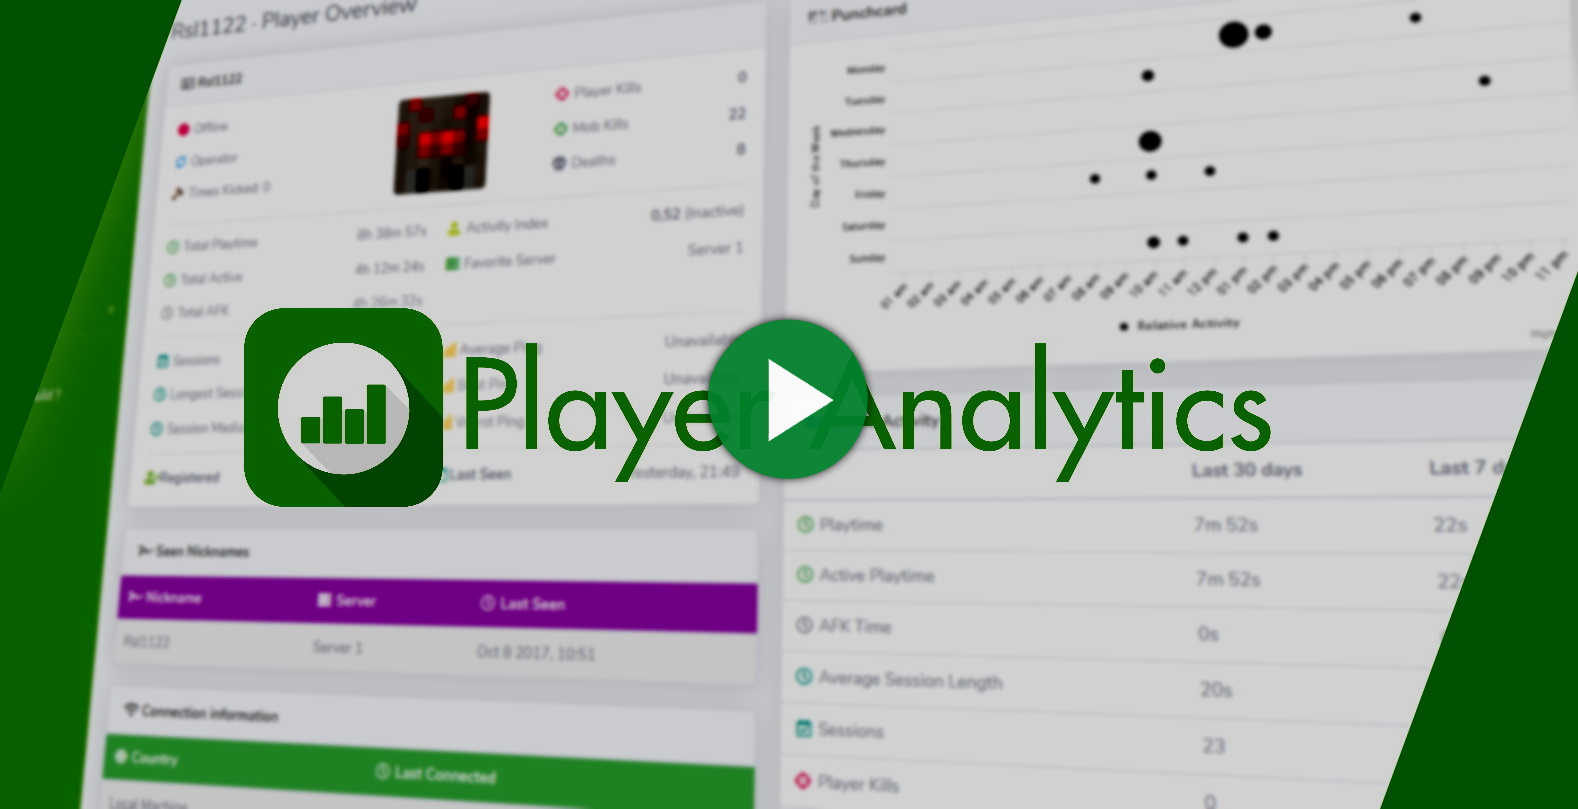
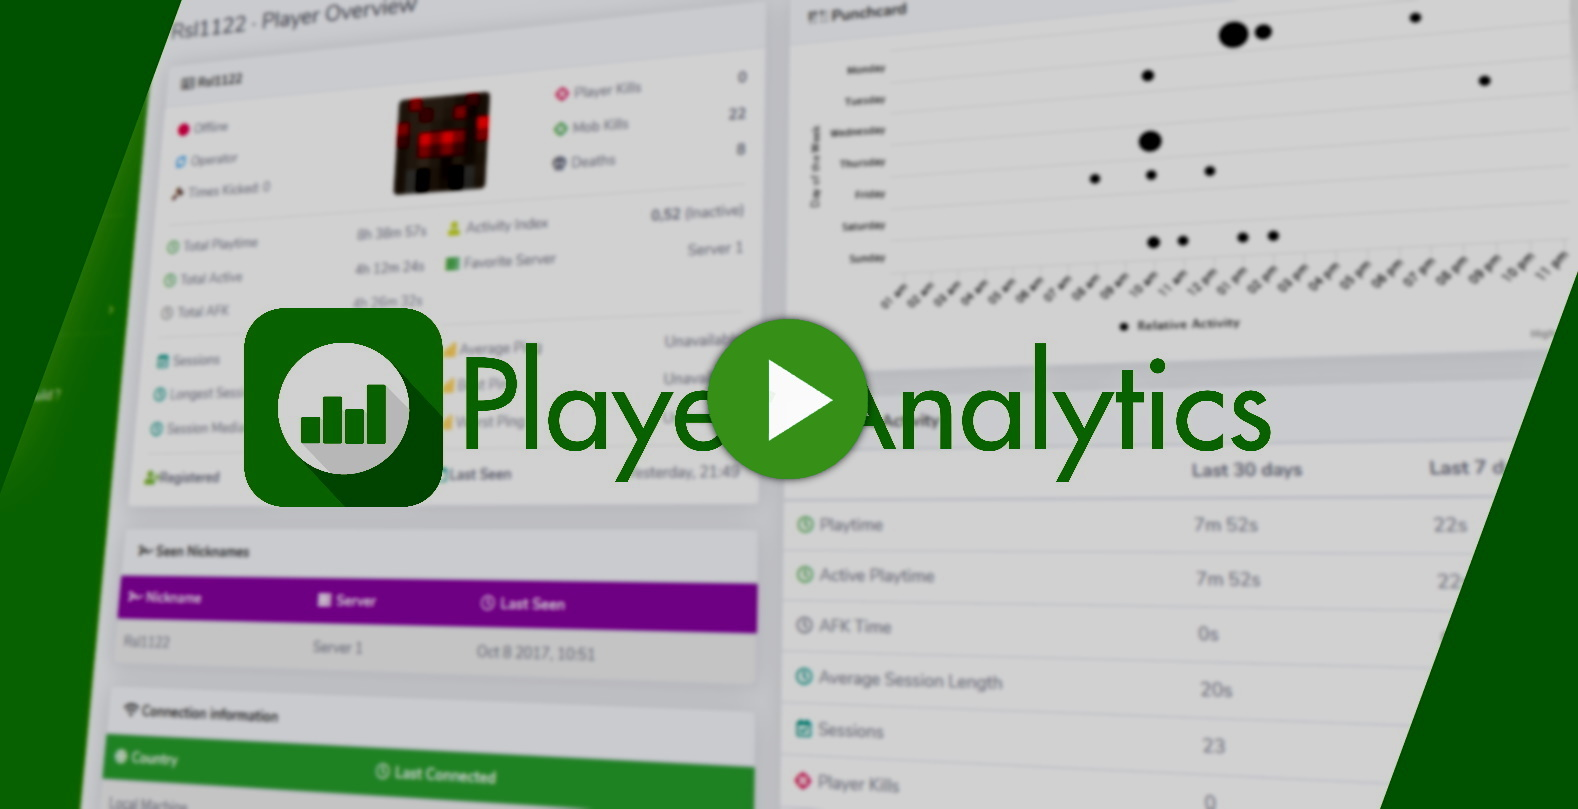
Change colors to Plan colors and fix links

Changed region(s): [[0.4347, 0.3708, 0.5589, 0.5871]]

diff --git a/src/components/layout/Header.js b/src/components/layout/Header.js
@@ -1,7 +1,6 @@
-import React, { useState, useRef, useEffect } from 'react';
+import React, {useEffect, useRef, useState} from 'react';
 import PropTypes from 'prop-types';
 import classNames from 'classnames';
-import { Link } from 'react-router-dom';
 import Logo from './partials/Logo';
 
 const propTypes = {
@@ -120,7 +119,9 @@ const Header = ({
                       className="list-reset header-nav-right"
                     >
                       <li>
-                      <a href="https://github.com/plan-player-analytics/Plan/wiki/Bukkit-Set-Up" className="button button-primary button-wide-mobile button-sm" onClick={closeMenu}>Install</a>
+                        <a href="https://github.com/plan-player-analytics/Plan/wiki/Get-Started"
+                           className="button button-primary button-wide-mobile button-sm"
+                           onClick={closeMenu}>Install</a>
                       </li>
                     </ul>}
                 </div>

diff --git a/src/components/layout/Footer.js b/src/components/layout/Footer.js
@@ -3,7 +3,6 @@ import PropTypes from 'prop-types';
 import classNames from 'classnames';
 import Logo from './partials/Logo';
 import FooterNav from './partials/FooterNav';
-import FooterSocial from './partials/FooterSocial';
 
 const propTypes = {
   topOuterDivider: PropTypes.bool,
@@ -41,11 +40,12 @@ const Footer = ({
           )}>
           <div className="footer-top space-between text-xxs">
             <Logo />
-            <FooterSocial />
           </div>
           <div className="footer-bottom space-between text-xxs invert-order-desktop">
-            <FooterNav />
-            <div className="footer-copyright">Made by <a href="https://cruip.com">Cruip</a>. All right reserved</div>
+            <FooterNav/>
+            <div className="footer-copyright">Developed by <a href="https://github.com/AuroraLS3">AuroraLS3</a> &
+              contributors.
+            </div>
           </div>
         </div>
       </div>

diff --git a/src/components/sections/Cta.js b/src/components/sections/Cta.js
@@ -1,7 +1,7 @@
 import React from 'react';
 import PropTypes from 'prop-types';
 import classNames from 'classnames';
-import { SectionProps } from '../../utils/SectionProps';
+import {SectionProps} from '../../utils/SectionProps';
 import Button from '../elements/Button';
 
 const propTypes = {
@@ -57,9 +57,10 @@ const Cta = ({
               </h3>
           </div>
           <div className="cta-action">
-          <Button tag="a" color="tertiary" wideMobile href="https://github.com/plan-player-analytics/Plan/wiki/Bukkit-Set-Up">
-                    Get started
-                    </Button>
+            <Button tag="a" color="tertiary" wideMobile
+                    href="https://github.com/plan-player-analytics/Plan/wiki/Get-Started">
+              Get started
+            </Button>
           </div>
         </div>
       </div>

diff --git a/src/components/layout/partials/FooterNav.js b/src/components/layout/partials/FooterNav.js
@@ -1,6 +1,5 @@
 import React from 'react';
 import classNames from 'classnames';
-import { Link } from 'react-router-dom';
 
 const FooterNav = ({
   className,
@@ -19,16 +18,13 @@ const FooterNav = ({
     >
       <ul className="list-reset">
         <li>
-          <Link to="#0">Contact</Link>
+          <a href="https://github.com/plan-player-analytics/Plan">Github</a>
         </li>
         <li>
-          <Link to="#0">About us</Link>
+          <a href="https://github.com/plan-player-analytics/Plan/wiki">Documentation</a>
         </li>
         <li>
-          <Link to="#0">FAQ's</Link>
-        </li>
-        <li>
-          <Link to="#0">Support</Link>
+          <a href="https://discord.com/invite/yXKmjzT" target="_blank" rel="noreferrer noopener">Discord Support</a>
         </li>
       </ul>
     </nav>

diff --git a/src/assets/scss/settings/base/_colors.scss b/src/assets/scss/settings/base/_colors.scss
@@ -13,11 +13,11 @@ $palette: (
 		3: #33363A
 	),
 	primary: (
-		1: #6163FF,
-		2: #ACADFF,
-		3: #5658DD,
-		4: #E9E9FF
- 	),
+					1: #368F17,
+					2: #a6d791,
+					3: #318117,
+					4: #d7eece
+	),
 	secondary: (
 		1: #24E5AF,
 		2: #73EFCC,
